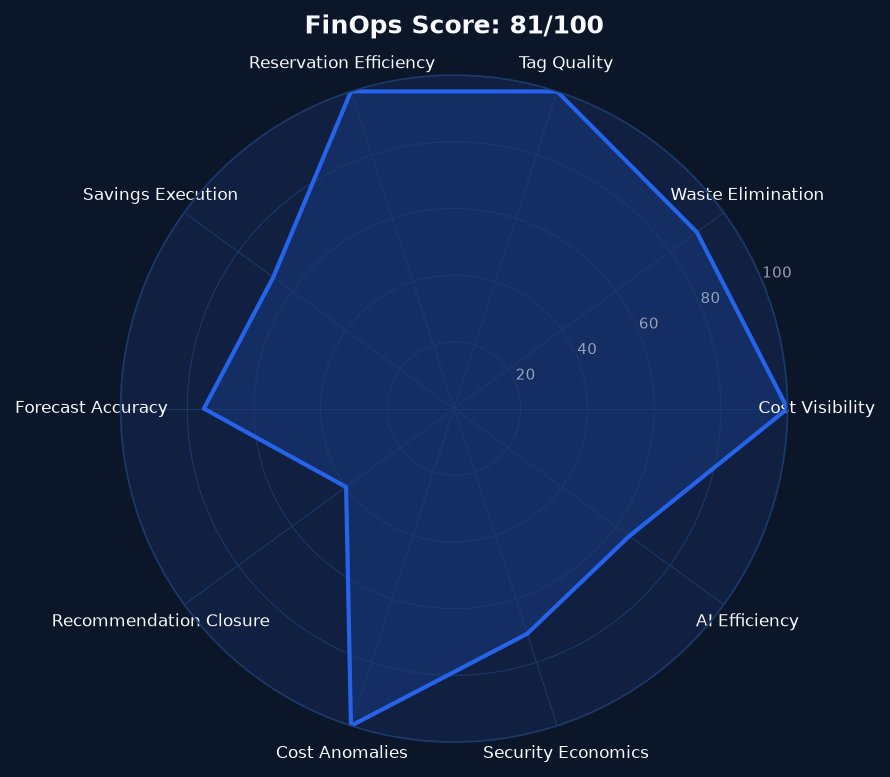
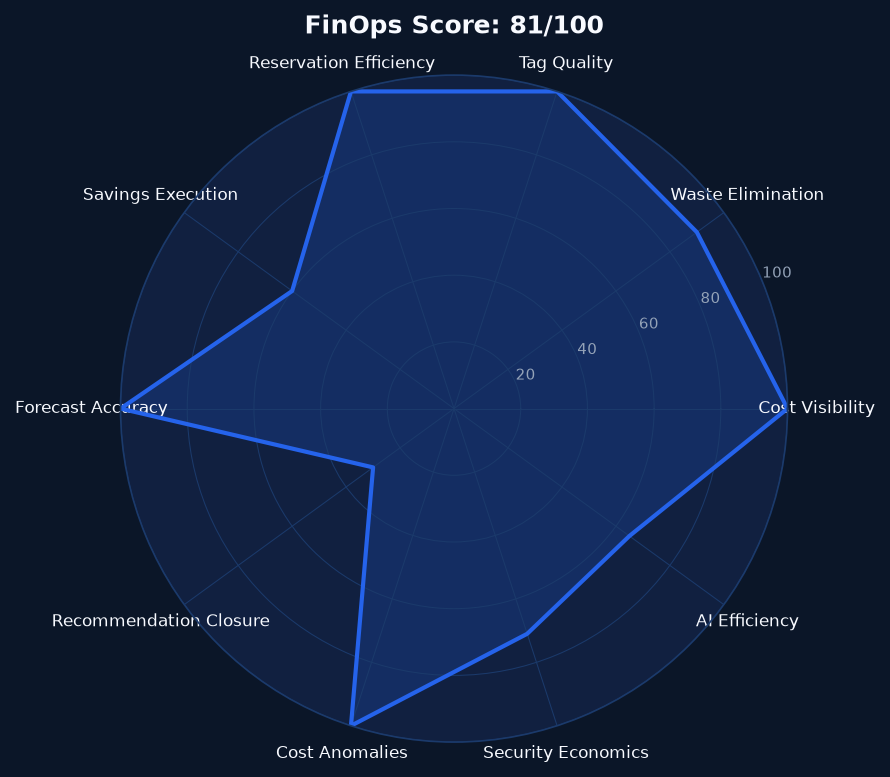
Demo tested and ready for Forrester Aug 21

Changed region(s): [[0.1213, 0.1236, 0.4247, 0.9266]]

diff --git a/meeting_prep_runner.js b/meeting_prep_runner.js
@@ -37,66 +37,61 @@ function spacer() {
 }
 
 const content = `# MBR PREPARATION PACKAGE
-**FinOps & Infrastructure Review | July 9, 2026**
+**FinOps & Infrastructure Team | August 20, 2026**
 
 ## EXECUTIVE SUMMARY
 
-Cloud spend increased 113% week-over-week to $5.37, driven primarily by AWS Cost Explorer usage spike on July 8th. While we successfully realized $2.30 in savings through snapshot cleanup, $9.24 in identified savings remains uncaptured and four critical security services remain disabled at a $11/month remediation cost. With two overdue actions and accelerating spend trajectory, we need immediate decisions on security investment and commitment to execute pending optimizations before month-end forecast of $6.46 materializes.
+Cloud spend remains stable at $0.83 for the 30-day period with a projected monthly run rate of $2.34, tracking toward an annual spend of $1,838. While we achieved $2.30 in savings this period and maintain a solid FinOps score of 81/100, we have $10.04 in unrealized savings from idle resources and face $11/month in costs to address four critical security service gaps (Security Score: 71/100). Immediate decisions are needed on security remediation investments and overdue action items to prevent compliance exposure and resource waste.
 
 ## TALKING POINTS
 
-• **Cloud spend jumped 113% last week** to $5.37, putting us on track for $6.46 this month and $1,861 annually—AWS Cost Explorer alone represents 68% of current spend at $3.65
+• **Cloud spend is stable and predictable** – $0.83 spent in the last 30 days with zero variance from prior week; annual forecast of $1,838 shows controlled growth with EC2 representing 70% of costs and RDS accounting for 30%
 
-• **We captured $2.30 in savings** this period through snapshot cleanup, but **$9.24 in additional savings sits unactured**, primarily in idle resources wasting $2.30 monthly
+• **We captured $2.30 in savings this period** through optimization efforts, demonstrating the team's ability to identify and eliminate waste without impacting operations
 
-• **Four security services are currently disabled**, creating compliance exposure that costs only $11/month to remediate—a decision is needed on whether to enable
+• **$10.04 per month is being wasted on idle resources** – this represents low-hanging fruit that should be addressed immediately to prevent $120+ in annual waste
 
-• **FinOps score of 81 (Grade B) is solid, but Security score of 71** indicates room for improvement, especially with two actions now overdue
+• **Four security services are currently disabled** creating compliance risk and requiring $11/month investment to remediate – the cost to fix is nominal compared to potential breach exposure
 
-• **Production database experienced high CPU** on June 16th costing an estimated $0.50 in performance impact—monitoring whether this becomes a pattern
+• **Action item completion is lagging** – only 1 item completed while 3 remain overdue, indicating potential resource constraints or prioritization challenges that need addressing
 
-• **No cost anomalies detected** and compliance checks passed, indicating good baseline controls despite the spending acceleration
+• **FinOps performance is strong at B-grade (81/100)** but security posture at 71/100 needs improvement to meet enterprise standards
 
-• **Current trajectory projects $1,861 annual spend**—need to validate if this aligns with budget expectations and growth plans
+• **No cost anomalies detected** this period, confirming our monitoring and guardrails are effectively preventing runaway spending
 
 ## RISKS
 
-**1. Uncaptured Savings Execution Risk**
-- **Exposure:** $9.24 immediate, $110+ annually
-- **Impact:** Two overdue optimization actions signal execution gap; idle resources continue burning $2.30/month
-- **Mitigation:** Assign single owner for all optimization items with July 16th hard deadline; automate idle resource detection and shutdown
+**1. Security Compliance Exposure** – Four critical security services remain disabled, creating potential audit failures and breach vulnerability. Dollar exposure: Difficult to quantify but remediation cost is only $11/month. *Mitigation: Approve $11/month security investment immediately and enable all four services within 7 days.*
 
-**2. Security Compliance Gaps**
-- **Exposure:** $11/month remediation cost, unknown breach liability
-- **Impact:** Four disabled security services create audit failures and potential vulnerability exposure
-- **Mitigation:** Approve $11/month investment immediately; establish policy requiring security service justification for any disablement
+**2. Unrealized Savings Leakage** – $10.04/month in idle resource waste ($120/year) indicates resources provisioned but not decommissioned. *Mitigation: Implement automated idle resource detection and mandatory 14-day decommissioning workflow.*
 
-**3. AWS Cost Explorer Spend Anomaly**
-- **Exposure:** $3.65 current, potentially recurring
-- **Impact:** Single service represents 68% of total spend; July 8th spike of $0.693 lacks clear business justification
-- **Mitigation:** Audit Cost Explorer API calls and reporting frequency; implement usage alerts at $2/day threshold
+**3. Action Item Accountability Gap** – Three overdue actions with only one completion suggests either inadequate resourcing or unclear ownership. *Mitigation: Reassign overdue items with executive sponsorship and implement weekly accountability check-ins.*
 
-**4. Spending Acceleration Without Visibility**
-- **Exposure:** 113% week-over-week growth rate
-- **Impact:** If sustained, month-end overage vs. forecast; annual projection uncertainty
-- **Mitigation:** Implement weekly spend reviews through month-end; require business justification for any service over $1/week
+**4. Forecast Accuracy Validation** – Current $0.83/30-day spend projects to $2.34/month, but requires validation against actual usage patterns. *Mitigation: Conduct mid-month forecast review to confirm projection accuracy and adjust if needed.*
 
 ## ACTIONS REQUIRED
 
-**1. Approve Security Services Budget** (Owner: Infrastructure Director, Deadline: July 12)
-- Decision needed: Allocate $11/month to enable four disabled security services or accept documented compliance risk
+**1. Approve Security Remediation Budget** – $11/month to enable four disabled security services. *Owner: Infrastructure Director | Deadline: August 22, 2026*
 
-**2. Clear Overdue Optimization Backlog** (Owner: FinOps Lead, Deadline: July 16)
-- Execute on $9.24 in identified savings; provide written explanation for two overdue items and recovery plan
+**2. Execute Idle Resource Cleanup** – Eliminate $10.04/month waste through resource decommissioning audit. *Owner: FinOps Lead | Deadline: September 3, 2026*
 
-**3. Investigate Cost Explorer Usage Spike** (Owner: Cloud Architect, Deadline: July 11)
-- Root cause analysis for $3.65 spend concentration; implement controls to prevent recurrence
+**3. Resolve Overdue Action Items** – Close all three overdue items or provide revised timeline with justification. *Owner: Team Leads | Deadline: August 27, 2026*
 
-**4. Establish Spend Governance Thresholds** (Owner: Finance + Engineering, Deadline: July 23)
-- Define approval requirements for new services; set automated alerts at service and account levels
+**4. Implement Automated Waste Detection** – Deploy tooling to prevent future idle resource accumulation. *Owner: Engineering Manager | Deadline: September 15, 2026*
 
-**5. Production Database Capacity Review** (Owner: Database Team, Deadline: July 19)
-- Assess June 16th CPU event; right-size or upgrade before performance degrades further`;
+## SLIDES OUTLINE
+
+**Slide 1:** Title – FinOps & Infrastructure MBR | August 2026
+
+**Slides 2-3:** Financial Overview – 30-day spend breakdown, trend analysis, forecast vs. actual, top service costs
+
+**Slides 4-5:** Risks & Mitigation – Security gaps, idle waste, action item delays with mitigation plans
+
+**Slides 6-7:** Optimization Opportunities – Savings realized ($2.30), savings at stake ($10.04), efficiency recommendations
+
+**Slide 8:** Actions & Owners – Four decisions with assigned owners and deadlines
+
+**Slide 9:** Next Period Forecast – September projections, key initiatives, success metrics`;
 const lines = content.split('\n');
 
 const children = [
@@ -106,7 +101,7 @@ const children = [
     spacing: { before: 0, after: 200 }
   }),
   new Paragraph({
-    children: [new TextRun({ text: "July 09, 2026 | Period: Last 30 days", size: 22, color: GRAY, font: "Arial" })],
+    children: [new TextRun({ text: "August 20, 2026 | Period: Last 30 days", size: 22, color: GRAY, font: "Arial" })],
     alignment: AlignmentType.CENTER,
     spacing: { before: 0, after: 400 }
   }),
@@ -115,7 +110,7 @@ const children = [
     columnWidths: [2340, 2340, 2340, 2340],
     rows: [new TableRow({
       children: [
-        ...["Total Spend\n$5.37", "Savings Available\n$0/mo", "Open Actions\n2", "FinOps Score\n81/100"].map(cell => {
+        ...["Total Spend\n$0.83", "Savings Available\n$0/mo", "Open Actions\n3", "FinOps Score\n81/100"].map(cell => {
           const [label, value] = cell.split('\n');
           return new TableCell({
             borders,
@@ -186,6 +181,6 @@ const doc = new Document({
 });
 
 Packer.toBuffer(doc).then(buffer => {
-  fs.writeFileSync('C:/Users/pvith/OneDrive/Desktop/OpsBeacon_MBR_Prep_20260709.docx', buffer);
-  console.log('Document created: C:/Users/pvith/OneDrive/Desktop/OpsBeacon_MBR_Prep_20260709.docx');
+  fs.writeFileSync('C:/Users/pvith/OneDrive/Desktop/OpsBeacon_MBR_Prep_20260820.docx', buffer);
+  console.log('Document created: C:/Users/pvith/OneDrive/Desktop/OpsBeacon_MBR_Prep_20260820.docx');
 });

diff --git a/app.py b/app.py
@@ -1054,7 +1054,7 @@ Frame in Tokenomics Foundation context. Start with AI ECONOMICS SUMMARY header."
             say(format_decision_for_slack(decision))
 
         elif 'snapshot' in text_lower or 'idle' in text_lower or 'delete' in text_lower:
-            from idle_resources import get_all_idle_resources
+            
             idle = get_all_idle_resources()
             if idle['old_snapshots']:
                 snap = idle['old_snapshots'][0]
@@ -1278,7 +1278,8 @@ if __name__ == "__main__":
     print("Daily standup scheduled for 8:45am every day")
 
     
-def check_snoozed_actions():
+if __name__ == "__main__":
+    def check_snoozed_actions():
         from actions_dashboard import get_snoozed_actions
         reactivated = get_snoozed_actions()
         if reactivated:
@@ -1289,7 +1290,7 @@ def check_snoozed_actions():
                     text=f"*Snoozed action is due:* {action['id']} - {action['title']}\nSavings at stake: ${action['estimated_savings']}/mo\nReply `done {action['id']}` when complete."
                 )
 
-scheduler.add_job(check_snoozed_actions, 'interval', hours=6)
-print("Snoozed action checks scheduled every 6 hours")
-handler = SocketModeHandler(app, os.environ["SLACK_APP_TOKEN"])
-handler.start()
+    scheduler.add_job(check_snoozed_actions, 'interval', hours=6)
+    print("Snoozed action checks scheduled every 6 hours")
+    handler = SocketModeHandler(app, os.environ["SLACK_APP_TOKEN"])
+    handler.start()
